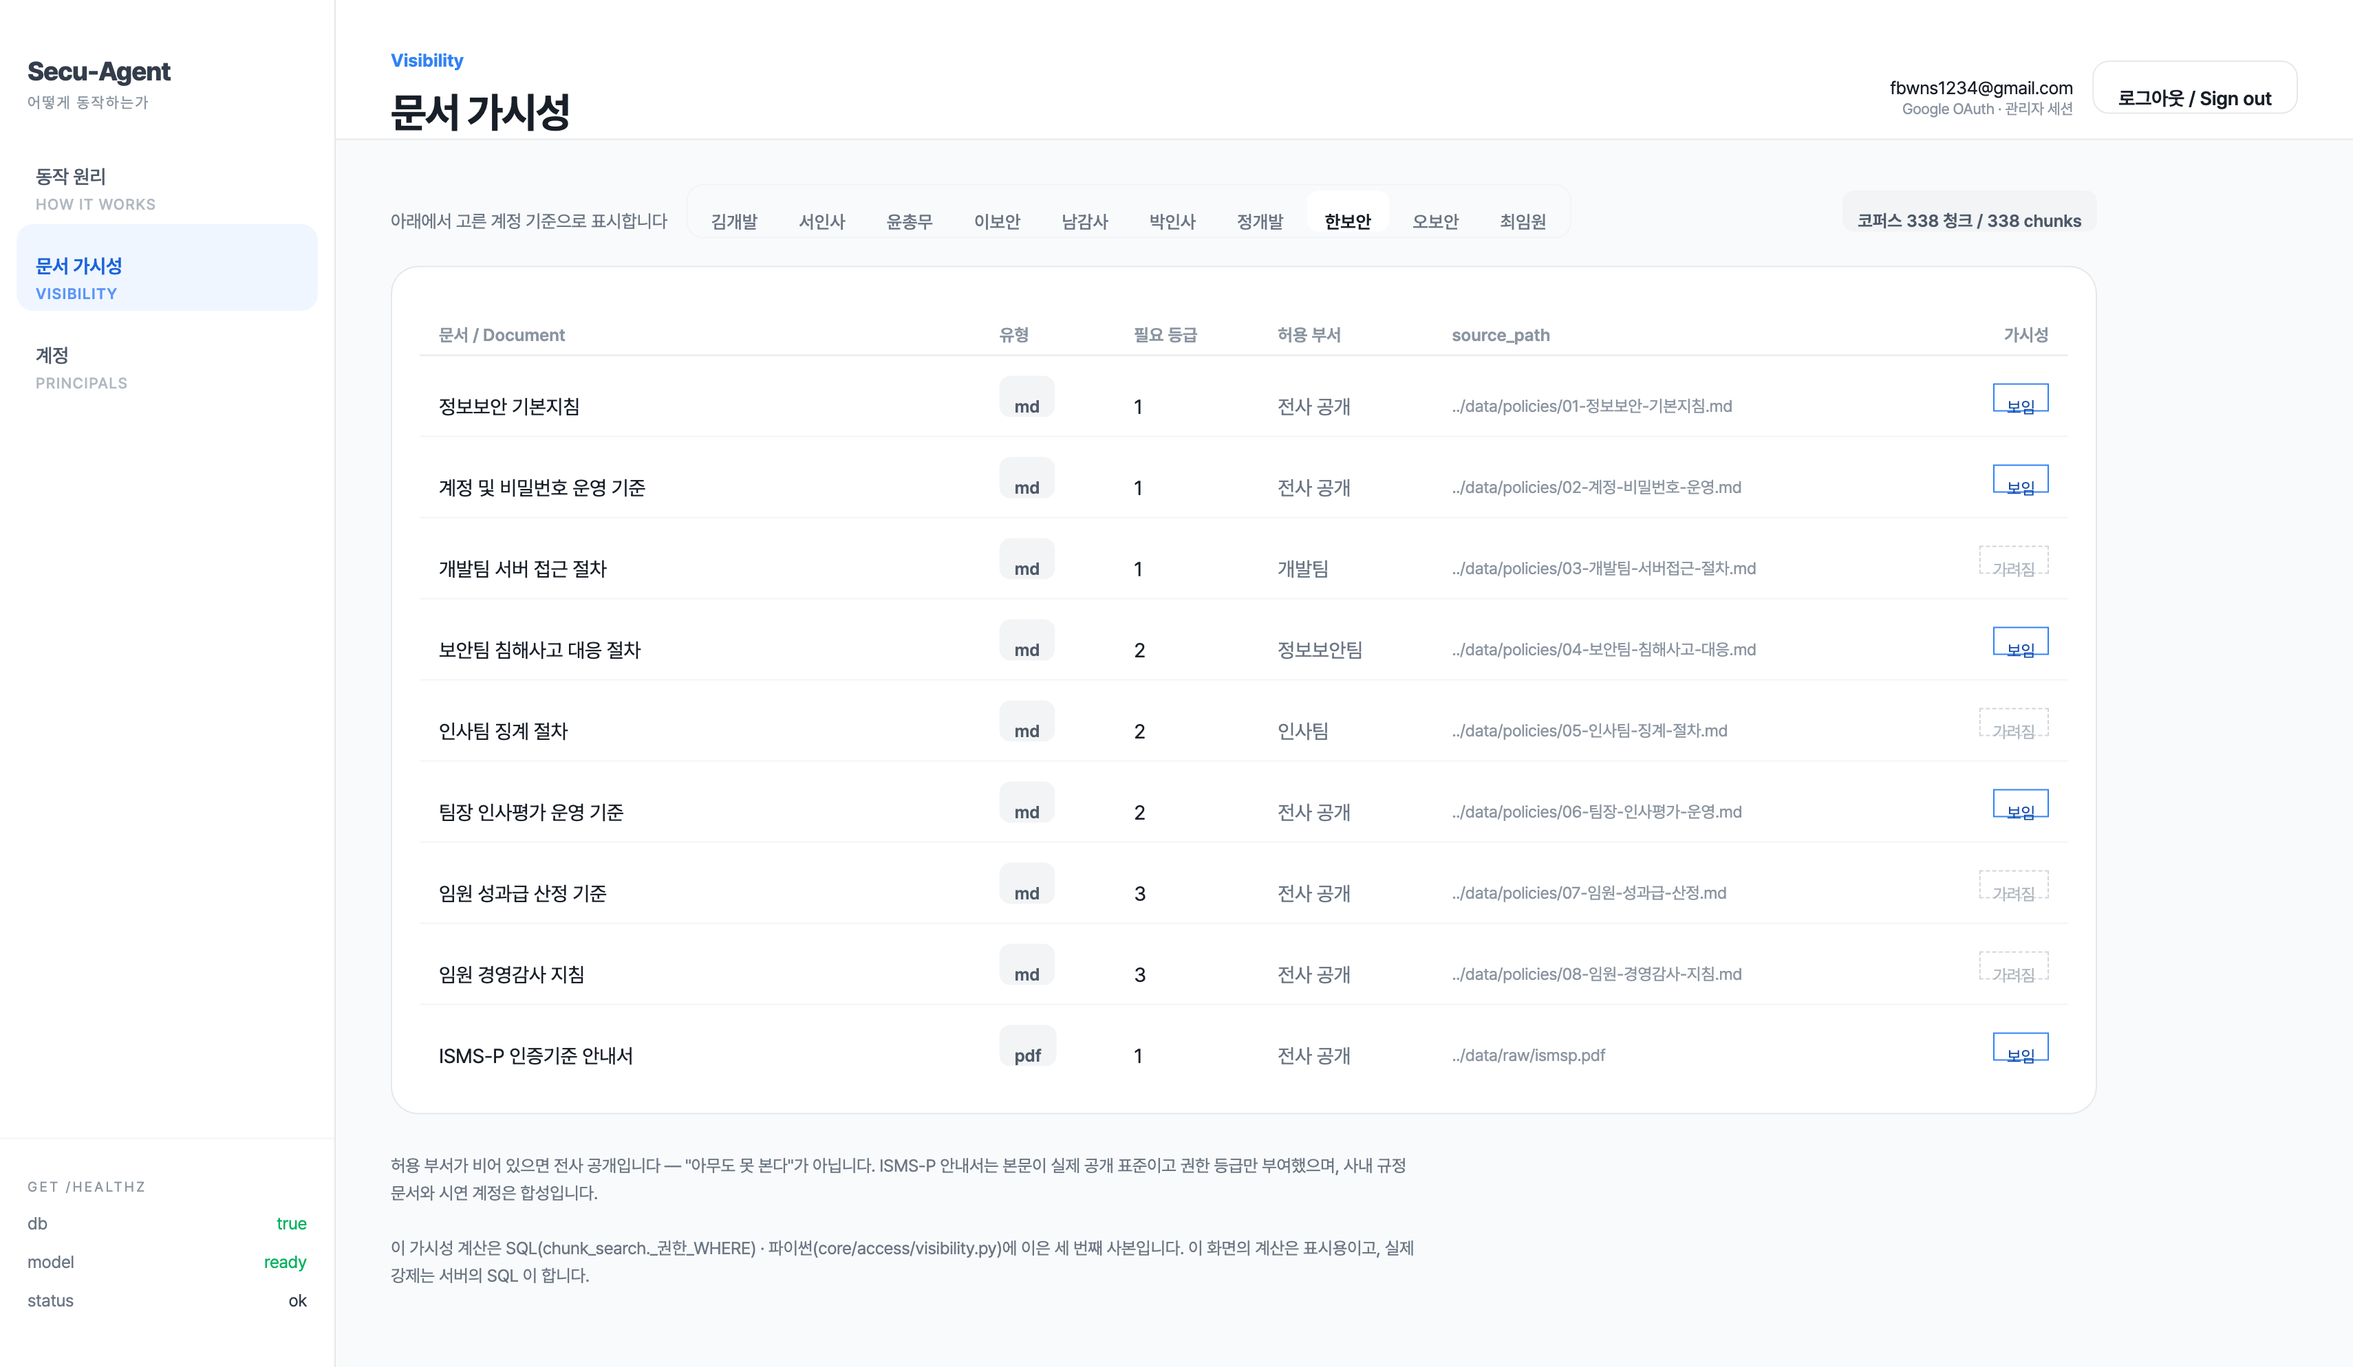
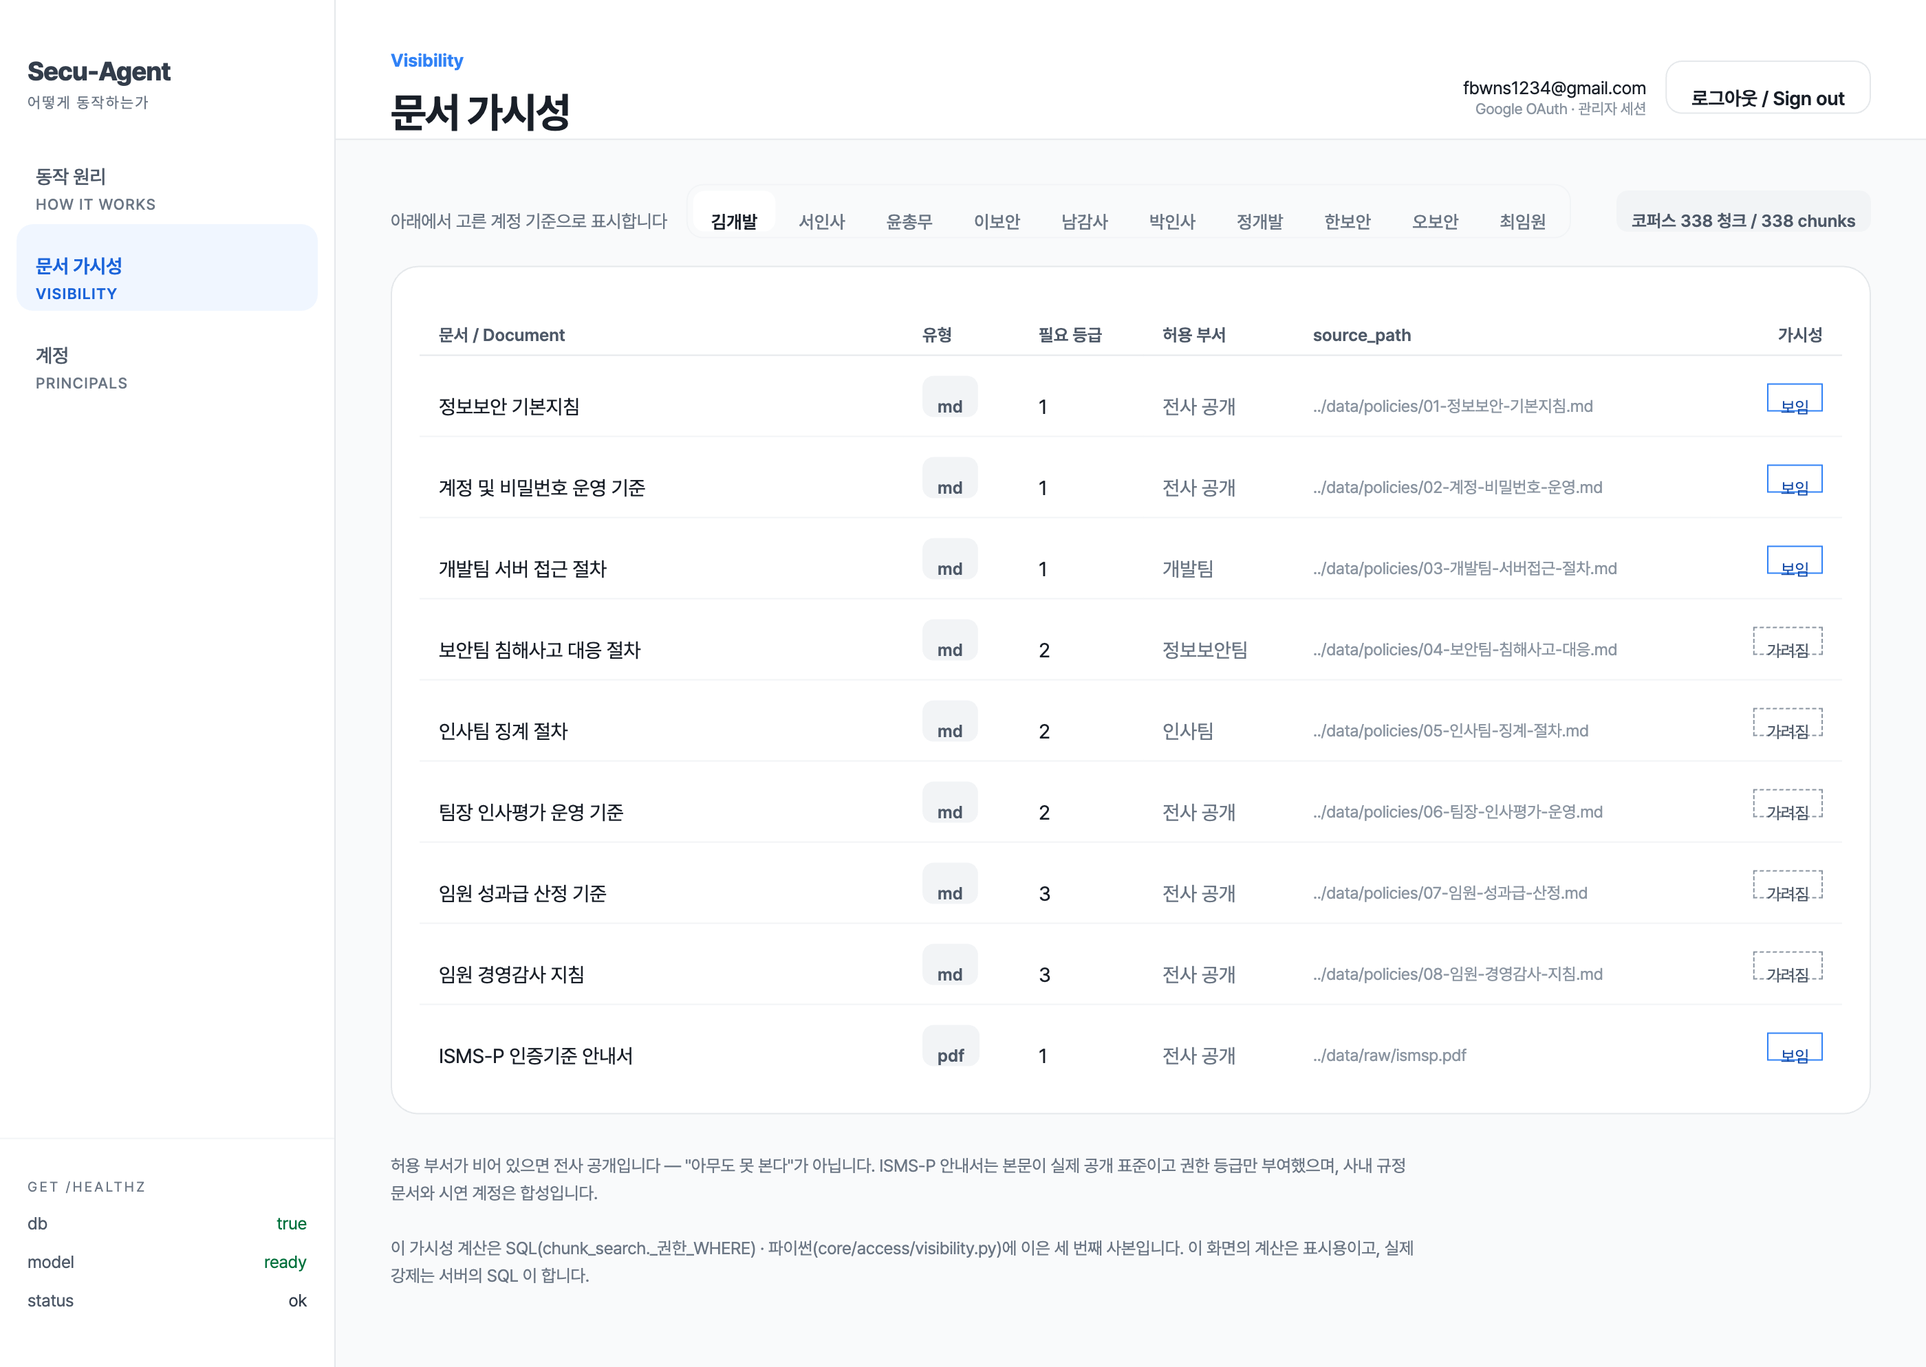
문서 사이트의 화면 일곱 장을 다시 캡처했다
PUA 글리프를 정리하고(c3ce299) 색 대비 토큰을 바꿨으므로(4b41ab9) 사이트에
붙어 있던 일곱 장이 다시 실제와 다른 화면이 됐다. ask-answer.png 에는
tofu 박스가 그대로 찍혀 있었고, how.png 에는 이제 없는 자유 입력창이
있었다. 사이트가 "이 화면들이다" 라고 말하면서 다른 화면을 보이면 그건
뒷받침 없는 문장과 같다.

같은 방법으로 다시 캡처했다 — 실행 중인 애플리케이션에 html2canvas 를
주입하고, 계산색을 rgb 까지 풀어 그린 뒤 로컬 수신기로 보낸다. 폭은
3420 에서 2800 으로 줄었다(캡처한 화면의 CSS 폭이 1400 이다). 일곱 장이
서로 같은 폭이라 격자에서 어긋나지 않는다.

**ask-answer 의 캡션을 원래 주장으로 되돌렸다.** 이전 사진은 한보안·
정보보안팀 세션이었는데 캡션은 김개발이 5.1.1 을 받았다고 적고 있었다 —
정면으로 모순이라 직전 커밋에서 사진에 맞춰 캡션을 고쳤었다. 이번에는
김개발로 같은 질문을 던져 캡처했고, 답변이 실제로 [5.1.1] 개발팀 서버
접근 절차를 인용한다. 사진이 그 문장을 뒷받침하므로 더 강한 쪽으로
되돌린다. 재적재 뒤 5.1.1 이 6위에서 4위로 올라온 것도 도왔다.

Claude-Session: https://claude.ai/code/session_011SmnzAkjRj2L2x6CKetLGB

diff --git a/jekyll/_logs/2026-09-04-06-infra.md b/jekyll/_logs/2026-09-04-06-infra.md
@@ -1,0 +1,46 @@
+---
+date: 2026-09-04
+area: infra
+seq: 6
+---
+
+- **배포와 문서가 실제와 어긋나 있었다**
+  **되살아나지 못하는 배포였다.** 두 서비스 모두 restart 정책이 없고
+  백엔드에는 헬스체크도 없었다. 노트북 위에서 돌며 터널로 공개되는
+  구성인데, 도커 데몬이 재시작하거나 DB 가 한 번 튀면 사람이 붙어야
+  살아났다. restart: unless-stopped · healthcheck · 로그 로테이션을 건다.
+  헬스체크 start_period 가 90초인 이유는 첫 /healthz 가 임베딩 모델
+  로드를 동기로 트리거해 ~30초 걸리기 때문이다 — 짧게 주면 기동 중인
+  컨테이너를 계속 죽인다.
+
+  **저장소에 남은 유일한 배포 절차가 저장소에 없는 파일을 요구했다.**
+  tunnel 실행 명령이 docker-compose.override.yml 을 필수 인자로 넘기는데
+  그 파일은 .gitignore 에 있다. 포트 이동을 ${SECU_BACKEND_PORT:-8080} 로
+  옮겨 두 파일로 닫았다. 터널 네트워크가 남의 스택과 공유되어 도달성이
+  양방향이라는 사실도 적어 뒀다.
+
+  **.env.example 의 기본 시크릿이 공개된 값이었다.** local-dev-secret 은
+  git 히스토리에 남아 누구나 읽는다. 그대로 복사해 터널을 켜면
+  docker-compose.yml 의 `:?` 가 막으려던 바로 그 상태 — 아는 값으로 열린
+  백엔드 — 가 된다. 비우고 만드는 명령을 적었다.
+
+  문서가 사실과 달랐던 곳:
+
+    frontend/README    "아직 착수 전입니다" — 화면 8개가 배포돼 있다
+    backend/README     첫 명령 `uv sync --group finetune` 이 에러로 끝난다.
+                       계층 트리에 없는 디렉토리가 둘(ontology · source)
+    verification       "갖춘 장치" 표에 만들지 않은 인용 실재 검증이 있다.
+                       같은 사이트의 로드맵은 "현재는 검색 품질 위주" 라고
+                       정직하게 적고 있어 자기 안에서 모순이었다
+    index.html         스크린샷 캡션이 사진과 정반대다 — 캡션은 김개발이
+                       5.1.1 을 받았다는데 사진은 한보안·2.6.2 다.
+                       한보안은 정보보안팀이라 개발팀 전용 5.1.1 에
+                       구조적으로 닿을 수 없다. 실제 사진 기준으로 다시
+                       쓰되 논지는 더 강해졌다 — 등급 2 가 요구 등급 1
+                       문서를 못 본다
+    index.html 통계    358 ≠ 351+30+7. 작성 시점부터 산술이 안 맞았다.
+                       419(백엔드 381 · 프론트 38)로 재계산
+    404 · verification 목차로 돌아가는 링크가 /toc/ 를 가리키는데 그런
+                       페이지가 없다. 404 페이지의 유일한 탈출구가 404였다
+
+- 커밋 `2bde7d2` · 파일 9개

diff --git a/jekyll/_logs/2026-09-04-05-web.md b/jekyll/_logs/2026-09-04-05-web.md
@@ -1,0 +1,44 @@
+---
+date: 2026-09-04
+area: web
+seq: 5
+---
+
+- **화면이 저시력·키보드 사용자에게 닫혀 있었다**
+  디자인 토큰을 상대휘도로 실측했더니 본문 크기 텍스트 열다섯 자리가
+  WCAG AA(4.5:1)를 못 넘겼다. 표 헤더 3.04 · 기본 버튼 라벨 3.71 ·
+  본문 링크 3.71 · 입력 플레이스홀더 1.92. /documents 의 "가려짐" 배지가
+  2.01 로 가장 안 읽혔는데, 그게 그 화면의 요점이다. 입력란은 흰 카드 위
+  경계가 1.05 라 입력란이 있다는 것 자체가 보이지 않았다.
+
+  토큰만 고치면 전 화면이 따라온다. 글자·버튼 배경으로 쓰는 accent 를
+  accent-700(#1b64da, 5.41:1)로 옮겼다 — 마침 이미 hover 색이었다.
+  보조 텍스트는 neutral-600 → neutral-800(7.11:1). 포커스 링과 캐럿은
+  비텍스트라 3:1 기준이고 이미 통과해서 건드리지 않았다. 지금 텍스트
+  실패는 0 이다.
+
+  문의 모달은 role=dialog · aria-modal · 포커스 트랩 · ESC · 배경 inert 를
+  전부 빠뜨리고 있었다. 열면 포커스가 오버레이 뒤 트리거에 남아, 탭이
+  보이지도 않는 배경 표를 훑은 뒤에야 안으로 들어왔고 ESC 는 먹지 않았다.
+  네이티브 <dialog> + showModal() 로 바꾼다 — 그 넷을 브라우저가 맡는다.
+  짧은 뷰포트에서 제목이 잘리던 것도 max-height 로 막았다.
+
+  aria-live 가 앱 전체에 0건이었다. /ask 는 콜드 스타트에서 수십 초
+  걸리는데, 스크린리더 사용자는 답변이 도착한 것을 알 방법이 없어 직접
+  훑어 내려가야 했다. 상태를 말하는 라이브 영역을 두고 오류 카드에
+  role=alert 를 붙인다.
+
+  빈 상태도 없었다. 근거 조항 0건이면 제목과 캡션만 남고 아래가 완전한
+  공백이었다 — "고장났나" 와 "내 권한 안에 없구나" 를 구별할 수 없다.
+  /ask 의 400(페르소나 쿠키 없음)은 "백엔드에 닿지 못했습니다 · 502" 라는
+  거짓 진단으로 표시됐다. 응답 본문의 error 를 한 번도 읽지 않았다.
+
+  error.tsx 가 앱에 하나도 없었다. 실제로 터지는 경로가 있었다 —
+  (explain)/documents 가 personas 목록이 비면 visible(d, undefined) 를
+  불러 TypeError 를 던졌고, 잡는 곳이 없어 화면 전체가 Next 기본 오류로
+  바뀌었다. visible 은 주체를 모르면 닫히는 쪽으로 답한다.
+
+  곁들여: 페르소나 쿠키에 secure(배포에서만), 로그인 화면의 고정 폭
+  420px 이 360px 뷰포트에서 만들던 가로 스크롤.
+
+- 커밋 `4b41ab9` · 파일 11개

diff --git a/jekyll/_logs/2026-09-04-04-data.md b/jekyll/_logs/2026-09-04-04-data.md
@@ -1,0 +1,42 @@
+---
+date: 2026-09-04
+area: data
+seq: 4
+---
+
+- **읽을 수 없는 글자 2,062자가 코퍼스에 있었다**
+  ISMS-P 안내서는 불릿을 Wingdings 계열 심볼 폰트로 찍었고, pypdf 는 그것을
+  매핑 없이 원래 코드포인트로 뽑는다. 유니코드 사설 사용 영역(PUA)이라
+  의미가 정해져 있지 않다. 실측: 338 청크 중 310 개에 2,062 자 —
+  U+F09F 1,666 · U+F06E 378 · U+F0AB 9 · U+F020 9.
+
+  셋을 동시에 오염시켰다. 브라우저에 폰트가 없어 tofu 박스로 그려지고
+  (문서 사이트의 ask-answer.png 에도 찍혀 있다), LLM 프롬프트에 의미 없는
+  토큰 수천 개가 들어가고, tsvector 와 임베딩에 잡음으로 남았다.
+
+  **정리하면 순위 지표가 내려간다.** 네 가지를 실측하고 골랐다:
+
+      유지        338청크  Recall .867  MRR .577  nDCG .644
+      가운뎃점    338청크  Recall .867  MRR .526  nDCG .607   ← 채택
+      공백        338청크  Recall .833  MRR .553  nDCG .619
+      제거        337청크  Recall .867  MRR .531  nDCG .612
+
+  길이가 1:1 이라 청크 경계가 움직이지 않는 변형에서도 내려간다 — 원인은
+  경계 이동이 아니라 토크나이제이션이다. PUA 는 e5 토크나이저에서 미지
+  토큰이고, 그 자리에 실제 토큰이 들어가면 문서 벡터가 움직인다.
+  Recall 은 그대로다: 정답 조항을 못 찾게 된 것이 아니라 같은 문서들의
+  순서가 바뀌었다. 골든셋은 청크 id 가 아니라 조항 코드로 정답을 적으므로
+  재적재가 정답 자체를 흔들지는 않는다.
+
+  낮은 수치를 그대로 싣는다. 읽을 수 없는 글자가 섞인 코퍼스에서 나온
+  높은 수치보다, 고친 코퍼스에서 나온 낮은 수치가 재현 가능하다.
+
+  README 도 같이 고쳤다. 붙여둔 데모 출력이 세 계정 시절 것이라 지금
+  명령을 치면 열 블록이 나왔다 — demo 에 --persona 를 더해 인용이
+  재현 가능해졌다. 재적재로 5.1.1 이 6위에서 4위로 올라와 그 설명도
+  바뀌었다. 그리고 빈 머신에서 이 저장소를 받아 세우는 절차가 문서에
+  아예 없었다 — compose 는 스키마를 적용하지 않고, API 는 apply_schema
+  를 부르지 않아 빈 DB 위에서도 뜨고 /healthz 가 ok 를 돌려준다.
+  코퍼스의 대부분인 ISMS-P PDF 도 저장소에 없어 받는 명령을 적었다.
+
+- 커밋 `c3ce299` · 파일 5개

diff --git a/jekyll/_logs/2026-09-04-03-api.md b/jekyll/_logs/2026-09-04-03-api.md
@@ -1,0 +1,37 @@
+---
+date: 2026-09-04
+area: api
+seq: 3
+---
+
+- **실패가 조용히 지나가던 자리 넷을 막았다**
+  **/log-events 에 재검증이 없었다.** enforce/enforce_events 의 프로덕션
+  호출부는 core/agent/tools.py 둘뿐이라, 도구를 거치는 /ask 만 2차 방어선을
+  지났다. /log-events 는 로그검색 결과를 그대로 직렬화하며 raw(원문)를
+  돌려준다 — SQL 이 회귀하면 /ask 는 502 로 시끄럽게 죽는데 여기만
+  200 OK 로 권한 밖 호스트의 원문을 조용히 내보낸다.
+
+  **/docs · /redoc · /openapi.json 이 무인증으로 열려 있었다.** 데이터
+  엔드포인트는 전부 401 이지만, 스키마 문서는 시크릿을 어느 헤더에 달아야
+  하는지까지 알려준다. 이 백엔드는 터널로 공개돼 있고 컨테이너 로그에
+  그 세 경로를 읽고 /ask 를 시도한 흔적이 실제로 남아 있다.
+
+  **parse_line 이 계약을 어기고 예외를 던졌다.** 독스트링은 "형식이 아니면
+  None" 이라 약속하는데, `Feb 30` · `25:00:00` 처럼 자릿수만 맞는 값은
+  정규식을 통과한 뒤 datetime 이 ValueError 를 낸다. ingest_logs 가 줄들을
+  한 번에 평가하므로 손상된 한 줄이 파일 전체의 적재를 원인 불명으로
+  죽였다 — 건너뜀 카운트에도 잡히지 않았다.
+
+  **AccessViolation 외의 예외가 전부 기본 500 이었다.** 사용자와 운영자가
+  502(권한 사고 — 조사해야 함)와 그 밖(외부 의존이 흔들림 — 재시도)을
+  응답만 보고 구별할 수 없었다. 503 으로 나눈다.
+
+  곁들여: 애플리케이션 로그가 0건이었다. 권한 위반과 기록 실패를 stdout
+  에도 남긴다(식별자만 — 예외가 우회 경로가 되면 안 된다). Gemini 에
+  timeout 60s · max_retries 2, DB 에 connect_timeout 5 를 건다. 없으면
+  응답 없는 외부 의존이 anyio 스레드풀을 채워 /healthz 까지 멈춘다.
+  SECUAGENT_DSN 이 빈 문자열이면 기본값으로 안 떨어지던 것도 고쳤다 —
+  `os.environ.get(k, default)` 는 빈 값에 default 를 주지 않아, direnv 를
+  쓰면 libpq 기본값으로 엉뚱한 DB 에 붙었다.
+
+- 커밋 `a7044fd` · 파일 7개

diff --git a/jekyll/_logs/2026-09-04-02-api.md b/jekyll/_logs/2026-09-04-02-api.md
@@ -1,0 +1,33 @@
+---
+date: 2026-09-04
+area: api
+seq: 2
+---
+
+- **권한 필터를 지워도 274개가 전부 통과했다**
+  변이 실험으로 확인했다. 아래 셋 모두 기본 스위트를 초록으로 지나갔다:
+
+      load_hits 의 `AND {_권한_WHERE}` → `AND TRUE`      274 passed
+      by_keyword 의 `WHERE {_권한_WHERE}` → `WHERE TRUE`  274 passed
+      log_search 를 LIMIT 뒤 필터(=사후 필터링)로 변경     274 passed
+
+  첫째는 id 만 알면 등급 3 청크의 **본문**을 받는 내용 누출이다.
+  셋 다 이 프로젝트의 핵심 불변식을 깨는데 아무도 보지 않았다.
+
+  이유는 단순했다. test_search_sql.py 가 검사하던 것은 모듈 상수인
+  _벡터_SQL 하나뿐이고, 나머지 둘은 메서드 안의 인라인 f-string 이라
+  정적 검사가 닿지 못했다. log_search._조회_SQL 은 상수인데도 그것을
+  보는 기본-스위트 테스트가 없었다. 검증하는 것은 전부 -m db 로 빠진
+  쪽에 있었다.
+
+  두 문장을 상수로 올리고, 네 문장 전부에 대해 (a) 권한 조각을 포함하는지
+  (b) 그 위치가 ORDER BY·LIMIT 보다 앞인지를 고정한다. 위치 관계로
+  인코딩하는 이유는 뒤로 밀리는 순간이 곧 사후 필터링이기 때문이다.
+
+  지금은 네 변이 모두 빨개진다.
+
+  /how 화면이 인쇄하는 전수 주장도 같이 고쳤다 — 권한 조각 importer 가
+  다섯에서 여섯이 되고(새 테스트 파일), compare.py 의 행 번호가 밀렸다.
+  좁은 화면에서 페이지를 밀던 표 하나에 table-scroll 을 붙였다.
+
+- 커밋 `eea13c6` · 파일 4개

diff --git a/jekyll/_logs/2026-09-04-01-api.md b/jekyll/_logs/2026-09-04-01-api.md
@@ -1,0 +1,29 @@
+---
+date: 2026-09-04
+area: api
+seq: 1
+---
+
+- **/how 의 자유 입력이 존재 오라클이었다**
+  이 비교는 세 계정의 결과를 한 응답에 담는다. 그게 화면의 요점인데,
+  질의를 방문자가 정할 수 있으면 그 순간 임의 주제로 등급 밖 조항을
+  열거하는 손잡이가 된다. 실측(2026-09-04):
+
+      POST /demo/compare {"query":"임원 성과급 재원은 영업이익의 몇 퍼센트인가","k":3}
+        김개발(등급1) naive: 0건 []
+        최임원(등급3) naive: 3건 ["6.1.1","6.1.2","6.1.3"]
+
+  등급 1 계정의 브라우저가 6.1.x 의 존재를 확인했다. 이 프로젝트가
+  감춘다고 주장하는 바로 그 신호다. 로그인은 스스로 정의했듯 권한이
+  아니라 요금 게이트라 그 앞을 막지 못한다.
+
+  질의를 서버 상수 네 개로 고정하고 인덱스만 받는다. 화면의 "지금
+  계산됐다" 는 그대로 참이다 — 캐시가 아니라 매번 실제로 검색한다.
+
+  test_demo_isolation.py 는 이 내내 초록불이었다. 그 테스트는 "/ask 가
+  demo 를 import 하지 않는다"(코드 도달성)를 보고, 이건 입력 계약이라
+  울타리의 종류가 다르다. test_demo_query_whitelist.py 가 그쪽을 맡는다 —
+  CompareRequest 에 query 필드가 되살아나는 것, 화면 칩 목록과 서버
+  목록이 순서까지 어긋나는 것, 입력창이 되돌아오는 것을 잡는다.
+
+- 커밋 `9c86813` · 파일 7개
